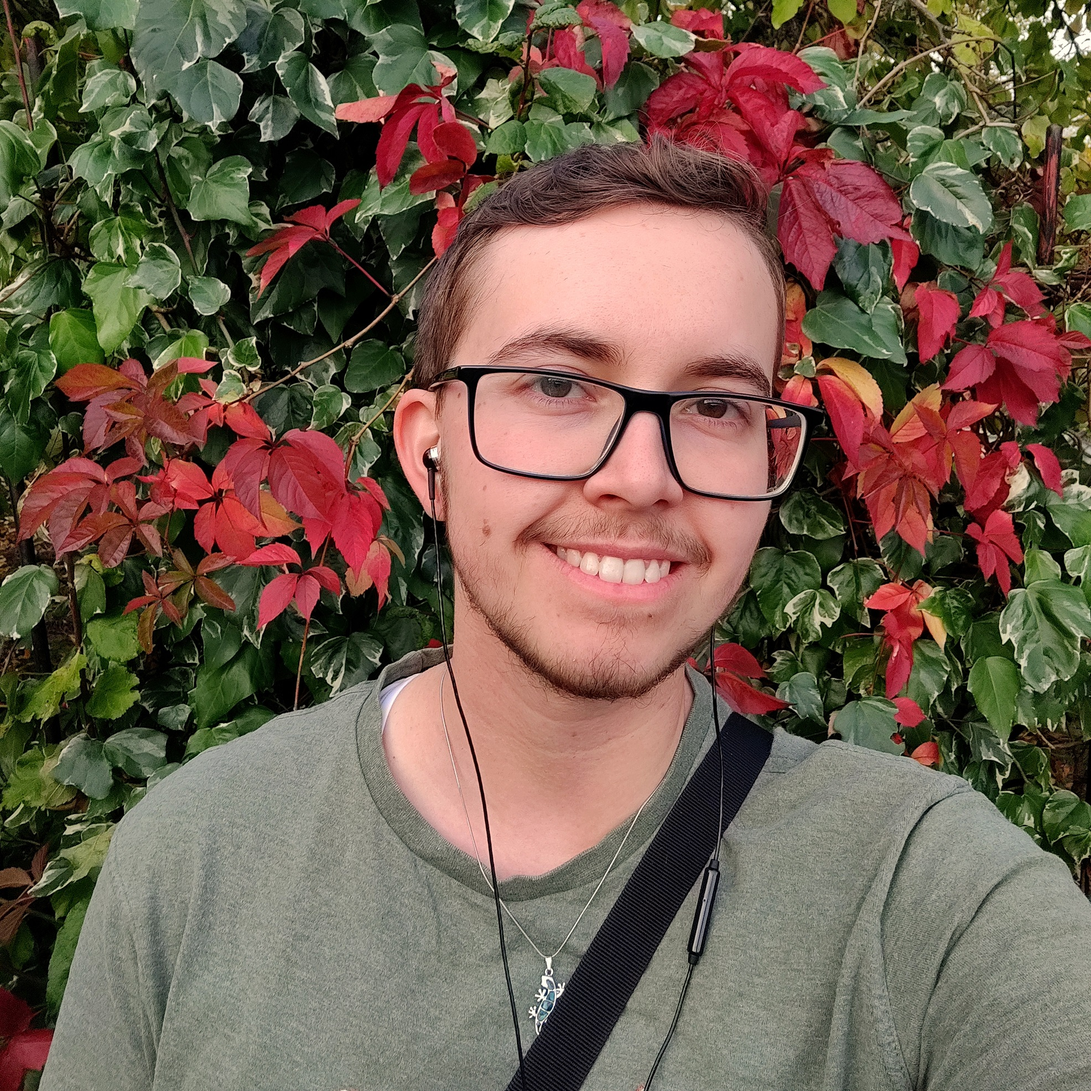
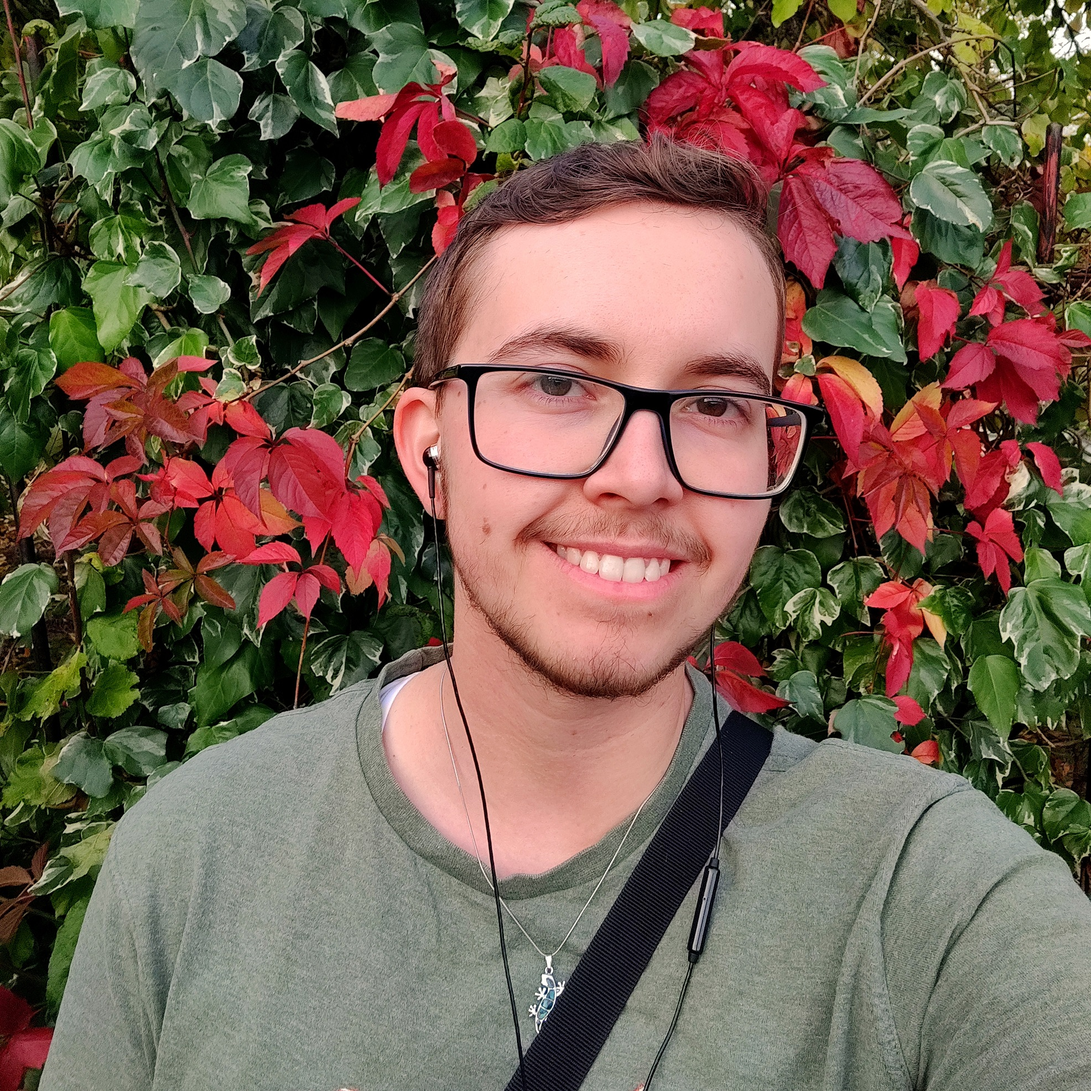
Update About page to get rich text content from Prismic as HTML and display to page + fix responsiveness

diff --git a/public/assets/js/about.js b/public/assets/js/about.js
@@ -1,0 +1,50 @@
+window.onload = async function(){
+    const postData = await fetch("/getAboutInfo/about_info/about").then(function(response) {
+        // The response is a Response instance.
+        // You parse the data into a useable format using `.json()`
+        return response.json();
+    }).then(function(res) {
+        let content1HTML = res.content1;
+        let content2HTML = res.content2;
+
+        let contentPara1 = document.getElementById("content-1");
+        let contentPara2 = document.getElementById("content-2");
+        contentPara1.innerHTML = content1HTML;
+        contentPara2.innerHTML = content2HTML;
+    })
+
+    // Sticky navbar
+    var navbar = document.getElementById("navbar");
+    var offsetTop = navbar.offsetTop;
+    
+    // When scrolling past navbar, add sticky class and remove transparency
+    // When scrolling back up, remove sticky class and add transparency
+    function stick() {
+        if (window.scrollY >= offsetTop) {
+            navbar.classList.remove("absolute");
+            navbar.classList.add("sticky");
+            navbar.style.backgroundColor = "rgba(49, 51, 74, 1)";
+        } else {
+            navbar.classList.remove("sticky");
+            navbar.classList.add("absolute");
+            navbar.style.backgroundColor = "rgba(49, 51, 74, 0.5)";
+        }
+    }
+
+    window.addEventListener("scroll", stick);
+
+    // Add current year to copyright line
+    var year = new Date().getFullYear();
+    document.getElementById("year").innerHTML = year + " ";
+}
+
+// If collapsed navbar content is visible, make it not visible on click
+// If it's not visible, make it visible
+function openNav(){
+    var collapsedNavbar = document.getElementById("collapsed-content");
+    if (collapsedNavbar.style.display === "block") {
+        collapsedNavbar.style.display = "none";
+    } else {
+        collapsedNavbar.style.display = "block";
+    }
+}

diff --git a/public/about.html b/public/about.html
@@ -39,7 +39,7 @@
     <!-- Font Awesome -->
     <script src="https://kit.fontawesome.com/22fc12a701.js" crossorigin="anonymous"></script>
     <!-- Script -->
-    <script src="assets/js/navbar.js"></script>
+    <script src="assets/js/about.js"></script>
 </head>
 
 <body>
@@ -102,11 +102,14 @@
     <div class="container-fluid">
         <div id="content-row" class="row">
             <div class="col-xl-1 d-lg-block d-none"></div>
-            <div id="article-div" class="panel col-xl-10 col-12">
-                <article class="inner-panel">
+            <div class="panel col-xl-10 col-12">
+                <div id="about-div" class="inner-panel">
+                    <img class="portrait float-end" src="assets/images/author-full.jpg" alt="A photo of Matt against a background of red and green leaves.">
+                    <h3 class="page-title">About the Blog</h3>
+                    <p id="content-1">Loading...</p>
                     <h3 class="page-title">About the Author</h3>
-                    <p>About info to come...</p>
-                </article>
+                    <p id="content-2">Loading...</p>
+                </div>
             </div>
             <div class="col-xl-1 d-lg-block d-none"></div>
         </div>

diff --git a/public/assets/css/style.css b/public/assets/css/style.css
@@ -455,6 +455,20 @@ button a:hover {
     /* background-color: rgba(29, 31, 47, 0.7); */
 }
 
+/* About Page */
+
+#about-div {
+    overflow: auto;
+}
+
+#content-1 {
+    margin-bottom: 2.2rem;
+}
+
+.portrait {
+    width: 40%;
+    padding: 0 0 2.6rem 2.6rem;
+}
 
 /* Back to Top */
 
@@ -568,6 +582,15 @@ h5 {
     #topic-header {
         padding: 4rem;
     }
+
+    #content-1 {
+        margin-bottom: 2rem;
+    }
+
+    .portrait {
+        width: 50%;
+        padding: 0 0 2.3rem 2.3rem;
+    }
 }
 
 @media only screen and (max-width: 426px) {
@@ -657,5 +680,14 @@ h5 {
 
     #topic-header h3 {
         font-size: 2.3rem;
+    }
+
+    #content-1 {
+        margin-bottom: 1.8rem;
+    }
+
+    .portrait {
+        width: 100%;
+        padding: 0 0 1.6rem 0;
     }
 }

diff --git a/functions/index.js b/functions/index.js
@@ -173,4 +173,12 @@ app.get("/getPost/post/:uid", async (req, res) => {
     res.send({document, content});
 });
 
+// Get about info including rich text content as HTML
+app.get("/getAboutInfo/about_info/:uid", async (req, res) => {
+    const document = await client.getByUID("about_info", req.params.uid);
+    const content1 = prismic.asHTML(document.data.content_1);
+    const content2 = prismic.asHTML(document.data.content_2);
+    res.send({content1, content2});
+});
+
 exports.woaf_app = functions.https.onRequest(app);
